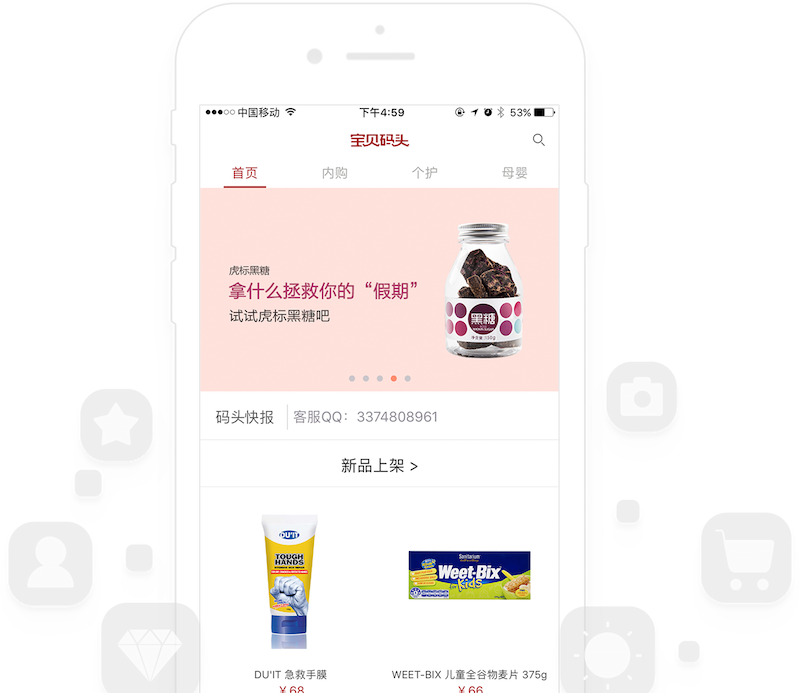
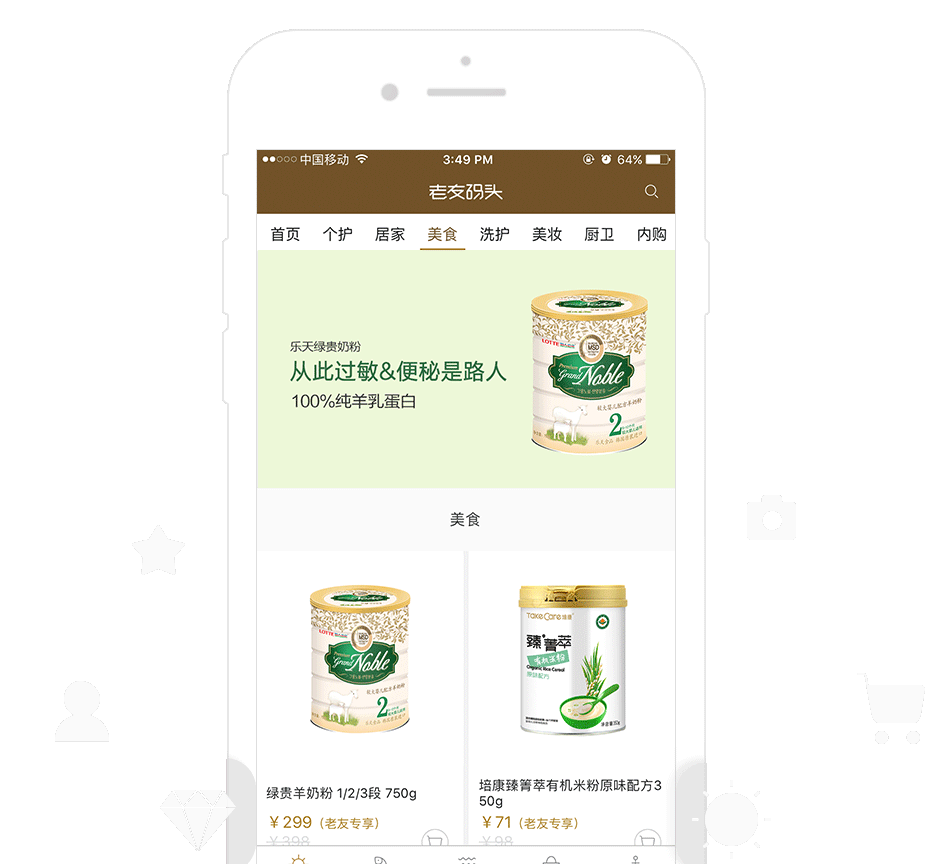
save

diff --git a/src/requests/request_write_factory.js b/src/requests/request_write_factory.js
@@ -71,7 +71,7 @@ export default class RequestWriteFactory {
         return req;
     }
 
-    //宝贝码头动态收藏
+    //老友码头动态收藏
     static dynamicFavoriteAdd(dynamicId,favId){
         let operation = Operation.sharedInstance().bmDynamicFavoriteAddOperation;
         let status = Network.sharedInstance().statusNew;
@@ -85,12 +85,12 @@ export default class RequestWriteFactory {
         };
 
         let req = new RequestWrite(status,'Favorite',params,null);
-        req.name = '宝贝码头动态收藏';
+        req.name = '老友码头动态收藏';
 
         return req;
     }
 
-    //宝贝码头动态收藏 取消
+    //老友码头动态收藏 取消
     static dynamicFavoriteCancel(favId){
         let operation = Operation.sharedInstance().bmDynamicFavoriteCancelOperation;
         let status = Network.sharedInstance().statusDelete;
@@ -101,12 +101,12 @@ export default class RequestWriteFactory {
         };
 
         let req = new RequestWrite(status,'Favorite',params,null);
-        req.name = '宝贝码头动态收藏 取消';
+        req.name = '老友码头动态收藏 取消';
 
         return req;
     }
 
-    //宝贝码头动态点赞
+    //老友码头动态点赞
     static dynamicLikeAdd(dynamicId,likeId){
         let operation = Operation.sharedInstance().bmDynamicLikeAddOperation;
         let status = Network.sharedInstance().statusNew;
@@ -118,12 +118,12 @@ export default class RequestWriteFactory {
         };
 
         let req = new RequestWrite(status,'Compliment',params,null);
-        req.name = '宝贝码头动态点赞';
+        req.name = '老友码头动态点赞';
 
         return req;
     }
 
-    //宝贝码头动态点赞 取消
+    //老友码头动态点赞 取消
     static dynamicLikeCancel(likeId){
         let operation = Operation.sharedInstance().bmDynamicLikeCancelOperation;
         let status = Network.sharedInstance().statusExisted;
@@ -135,12 +135,12 @@ export default class RequestWriteFactory {
         };
 
         let req = new RequestWrite(status,'Compliment',params,null);
-        req.name = '宝贝码头动态点赞 取消';
+        req.name = '老友码头动态点赞 取消';
 
         return req;
     }
 
-    //宝贝码头动态评论点赞
+    //老友码头动态评论点赞
     static dynamicCommentLikeAdd(commentId,likeId){
         let operation = Operation.sharedInstance().bmDynamicCommentLikeAddOperation;
         let status = Network.sharedInstance().statusNew;
@@ -152,12 +152,12 @@ export default class RequestWriteFactory {
         };
 
         let req = new RequestWrite(status,'Compliment1',params,null);
-        req.name = '宝贝码头动态评论点赞';
+        req.name = '老友码头动态评论点赞';
 
         return req;
     }
 
-    //宝贝码头动态评论点赞 取消
+    //老友码头动态评论点赞 取消
     static dynamicCommentLikeCancel(likeId){
         let operation = Operation.sharedInstance().bmDynamicCommentLikeCancelOperation;
         let status = Network.sharedInstance().statusExisted;
@@ -169,7 +169,7 @@ export default class RequestWriteFactory {
         };
 
         let req = new RequestWrite(status,'Compliment1',params,null);
-        req.name = '宝贝码头动态评论点赞 取消';
+        req.name = '老友码头动态评论点赞 取消';
 
         return req;
     }

diff --git a/src/requests/request_read_factory.js b/src/requests/request_read_factory.js
@@ -100,7 +100,7 @@ export default class RequestReadFactory {
         return req;
     }
 
-    //宝贝码头商品详情
+    //老友码头商品详情
     static productDetailRead(theId){
         let operation = Operation.sharedInstance().bmProductReadOperation;
         let bodyParameters =  {
@@ -109,7 +109,7 @@ export default class RequestReadFactory {
             "MaxCount":'1',
         };
         let req = new RequestRead(bodyParameters);
-        req.name = '宝贝码头商品详情';//用于日志输出
+        req.name = '老友码头商品详情';//用于日志输出
         req.items = ['Id','ShowName','LYPrice','SalePrice','ImgId','Warehouse','Des1','Des','Tax','Subtitle','NationalKey','StoreId','TaxRate','Import','PriceInside'];
         return req;
     }
@@ -293,7 +293,7 @@ export default class RequestReadFactory {
         return req;
     }
 
-    //宝贝码头省市区选择
+    //老友码头省市区选择
     static bmAreaListRead(level = 1,parentId){
         let operation = Operation.sharedInstance().bmAreaRead;
         let condition = "${CJS} = " + level + " && ${ParentId} = '" + parentId + "'";
@@ -305,13 +305,13 @@ export default class RequestReadFactory {
             "Condition":condition,
         };
         let req = new RequestRead(bodyParameters);
-        req.name = '宝贝码头省市区选择';//用于日志输出
+        req.name = '老友码头省市区选择';//用于日志输出
         req.items = ["Id", "CJS", "ZJS", "FullName", "Name"];
 
         return req;
     }
 
-    //宝贝码头用户信息读取
+    //老友码头用户信息读取
     static bmMemberInfoReadByPhone(phone){
         let operation = Operation.sharedInstance().bmMemberInfoRead;
         let condition = "${Mobile} == '"+phone+"'";
@@ -320,13 +320,13 @@ export default class RequestReadFactory {
             "Condition":condition,
         };
         let req = new RequestRead(bodyParameters);
-        req.name = '宝贝码头用户信息读取';//用于日志输出
+        req.name = '老友码头用户信息读取';//用于日志输出
         req.items = ["Id"];
 
         return req;
     }
 
-    //宝贝码头订单详情读取
+    //老友码头订单详情读取
     static bmOrderDetailRead(orderId){
         let operation = Operation.sharedInstance().bmOrderRead;
         let condition = "${Id} == '" + orderId + "'";
@@ -335,7 +335,7 @@ export default class RequestReadFactory {
             "Condition":condition,
         };
         let req = new RequestRead(bodyParameters);
-        req.name = '宝贝码头订单详情读取';//用于日志输出
+        req.name = '老友码头订单详情读取';//用于日志输出
         // req.items = ["Id"];
 
         return req;

diff --git a/src/pages/babymarket/product-detail/product-info/bm-product-info.js b/src/pages/babymarket/product-detail/product-info/bm-product-info.js
@@ -73,8 +73,8 @@ export default class BMProductInfo extends Component {
         console.log('onTitleTouchEnd');
     }
 
-    pricePrefix(){
-        return window.Storage.didLogin() ? "（老友专享）": "";
+    priceSubfix(){
+        return window.Storage.didLogin() ? <img src="./img/price-subfix.png" className="bmpi-price-subfix"/>: "";
     }
     price(){
         return this.props.product.SalePrice;
@@ -130,11 +130,11 @@ export default class BMProductInfo extends Component {
                 marginTop:10
             }}>
                 {this.importIcon()}
-                <span onTouchStart={this.onTitleTouchStart.bind(this)} onTouchEnd={this.onTitleTouchEnd.bind(this)} className="bmpi-title">{this.props.product.ShowName}</span>
+                <div onTouchStart={this.onTitleTouchStart.bind(this)} onTouchEnd={this.onTitleTouchEnd.bind(this)} className="bmpi-title one-line-ellipsis">{this.props.product.ShowName}</div>
             </div>
             <p className="bmpi-des">{this.props.product.Subtitle}</p>
             <div className="bmpi-price-container">
-                <span className="bmpi-price">￥{this.price()} {this.pricePrefix()}</span>
+                <span className="bmpi-price">￥{this.price()} {this.priceSubfix()}</span>
                 <span className="bmpi-old-price">{this.oldPrice()}</span>
                 {this.buyButton()}
             </div>

diff --git a/src/pages/babymarket/product-detail/product-info/bm-product-info.css b/src/pages/babymarket/product-detail/product-info/bm-product-info.css
@@ -14,7 +14,7 @@
 .bmpi-country-base{
     display: flex;
     flex-direction: row;
-    margin-top: 10px;
+    margin-top: 8px;
     margin-bottom: 8px;
     color: #7798c4;
 }
@@ -34,6 +34,9 @@
 }
 
 .bmpi-price{
+    display: flex;
+    align-items: center;
+    flex-direction: row;
     font-size: 17px;
     color: #ab7b0f;
     margin-left: 10px;
@@ -47,11 +50,11 @@
     margin-top: 5px;
     text-decoration:line-through;
 }
+
 .bmpi-title{
-    display: inline;
+    /*display: inline;*/
     font-size: 16px;
-    margin-left: 6px;
-    margin-top: 18px;
+    margin-left: 10px;
     color: #131313;
 }
 
@@ -60,7 +63,7 @@
     color: #585858;
     margin-left: 10px;
     margin-bottom:2px;
-    margin-top: 8px;
+    margin-top: 0px;
 }
 
 .bmpi-express-base{
@@ -94,10 +97,13 @@
     width: 100%;
     flex-direction: row;
     justify-content: flex-start;
+    align-items: center;
 }
 .bmpi-buy-button{
     padding:4px 8px;
     margin-right: 10px;
+    margin-left: 30px;
+    margin-top: 2px;
 
     border: 1px solid red;
     border-radius: 5px;
@@ -105,4 +111,10 @@
     color: white;
 }
 
+.bmpi-price-subfix{
+    display: inline;
+    height: 18px;
+    width: auto;
+    margin:2px 10px 0 4px;
+}
 

diff --git a/src/pages/download/babymarket/babymarket-download-mobile.js b/src/pages/download/babymarket/babymarket-download-mobile.js
@@ -17,23 +17,23 @@ export default class BabymarketDownloadMobile extends Component {
         return <div className="bm-down-mobile">
             <img
                 className="bm-down-mobile-bg"
-                src="./img/babymarket-screenshot-mobile.jpg"
+                src="./img/babymarket-screenshot-mobile.png"
             />
 
             <BabymarketDownloadMobileBtn
                 theId='invite_download0'
                 link={this.link()}
                 title='下载Android版'
-                icon='./img/android-icon-white.png'
+                icon='./img/android-icon-black.png'
             />
             <BabymarketDownloadMobileBtn
                 theId='invite_download1'
                 link={this.link()}
                 isLast={true}
                 title='访问App Store'
-                icon='./img/ios-icon-white.png'
+                icon='./img/ios-icon-black.png'
             />
-            <span className="bm-down-mobile-des">会员专属福利App</span>
+            <span className="bm-down-mobile-des">老友好物分享App</span>
         </div>
     }
 }

diff --git a/src/requests/operation.js b/src/requests/operation.js
@@ -55,10 +55,10 @@ export default class Operation{
         /*****************************************************************************/
         /********************            老友码头                ***********************/
         /*****************************************************************************/
-        //宝贝码头商品详情
+        //老友码头商品详情
         this.bmProductReadOperation = 'de9362a8-395e-09a4-087d-3c1701f9da63';
 
-        //宝贝码头附件
+        //老友码头附件
         this.bmAttachmentsReadOperation = '7eba4898-2f70-05b4-0b17-009a002e71ad';
 
         //老友码头 商品的国家信息

diff --git a/src/pages/download/babymarket/button/babymarket-download-mobile-btn.css b/src/pages/download/babymarket/button/babymarket-download-mobile-btn.css
@@ -3,7 +3,7 @@
     flex-direction: row;
     justify-content: center;
     align-items: center;
-    background-color: #b10920;
+    background-color: white;
     border-radius: 5px;
     margin: 3px;
     margin-bottom: 10px;
@@ -11,6 +11,7 @@
     max-width: 400px;
     min-width: 150px;
     z-index:2;
+    border: 1px solid #e8e8e8;
 }
 
 .lastBtn{
@@ -18,15 +19,14 @@
 }
 
 .bm-down-mobile-image{
-    border-color: black;
-    border-width: 1px;
     height: 20px;
     width: 20px;
     margin: 10px;
+    object-fit: contain;
 }
 
 .bm-down-mobile-title{
     display: flex;
-    color: #e6e6e6;
+    color: #747474;
     font-size: 14px;
 }

diff --git a/src/pages/babymarket/web-order/address/bm-add-address.js b/src/pages/babymarket/web-order/address/bm-add-address.js
@@ -83,7 +83,7 @@ export default class BMAddAddress extends TCBaseComponet{
          */
         this.checkPhone((req,data) => {
             if (window.Tool.isValidObject(data)) {
-                window.Tool.showAlert('该手机号已注册，请使用宝贝码头App下单');
+                window.Tool.showAlert('该手机号已注册，请使用老友码头App下单');
             }
             else
             {

diff --git a/src/pages/download/babymarket/babymarket-download-pc.css b/src/pages/download/babymarket/babymarket-download-pc.css
@@ -15,7 +15,7 @@
     width: 100%;
     background-color: white;
 }
-/*宝贝码头字样*/
+/*老友码头字样*/
 .bm-down-pc-topheader-icon{
     display: flex;
     align-self: center;
